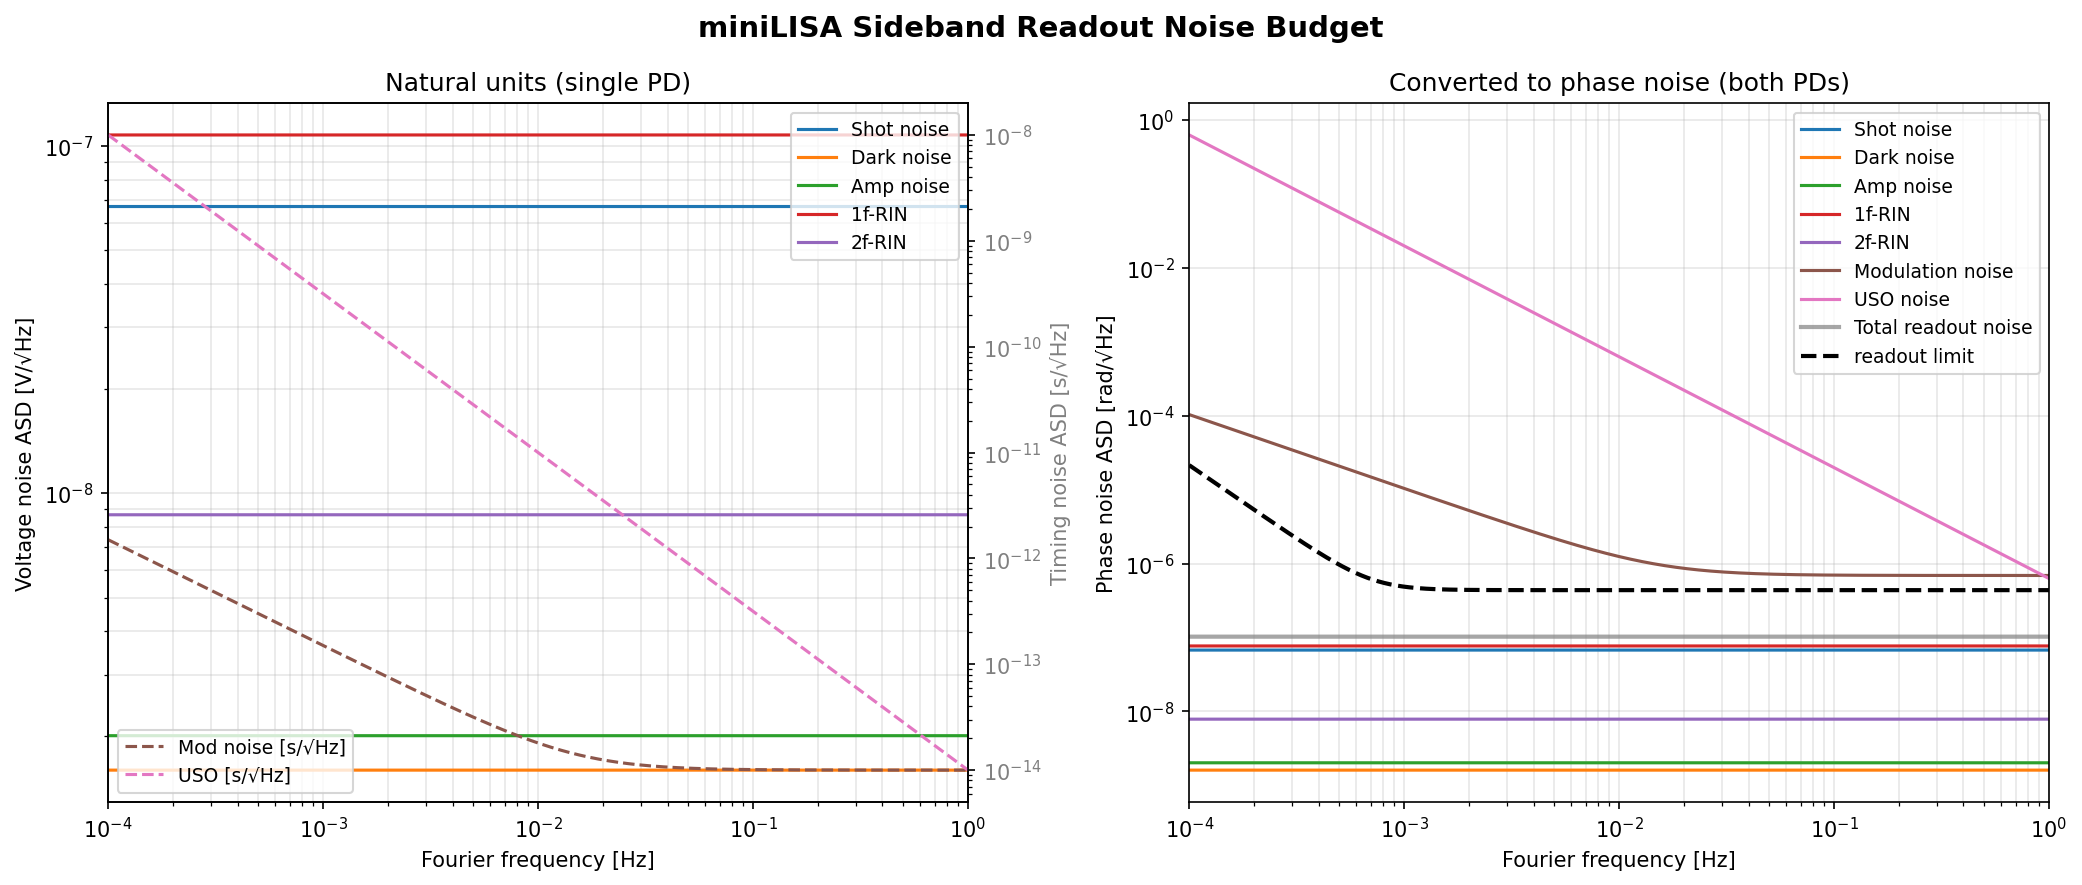
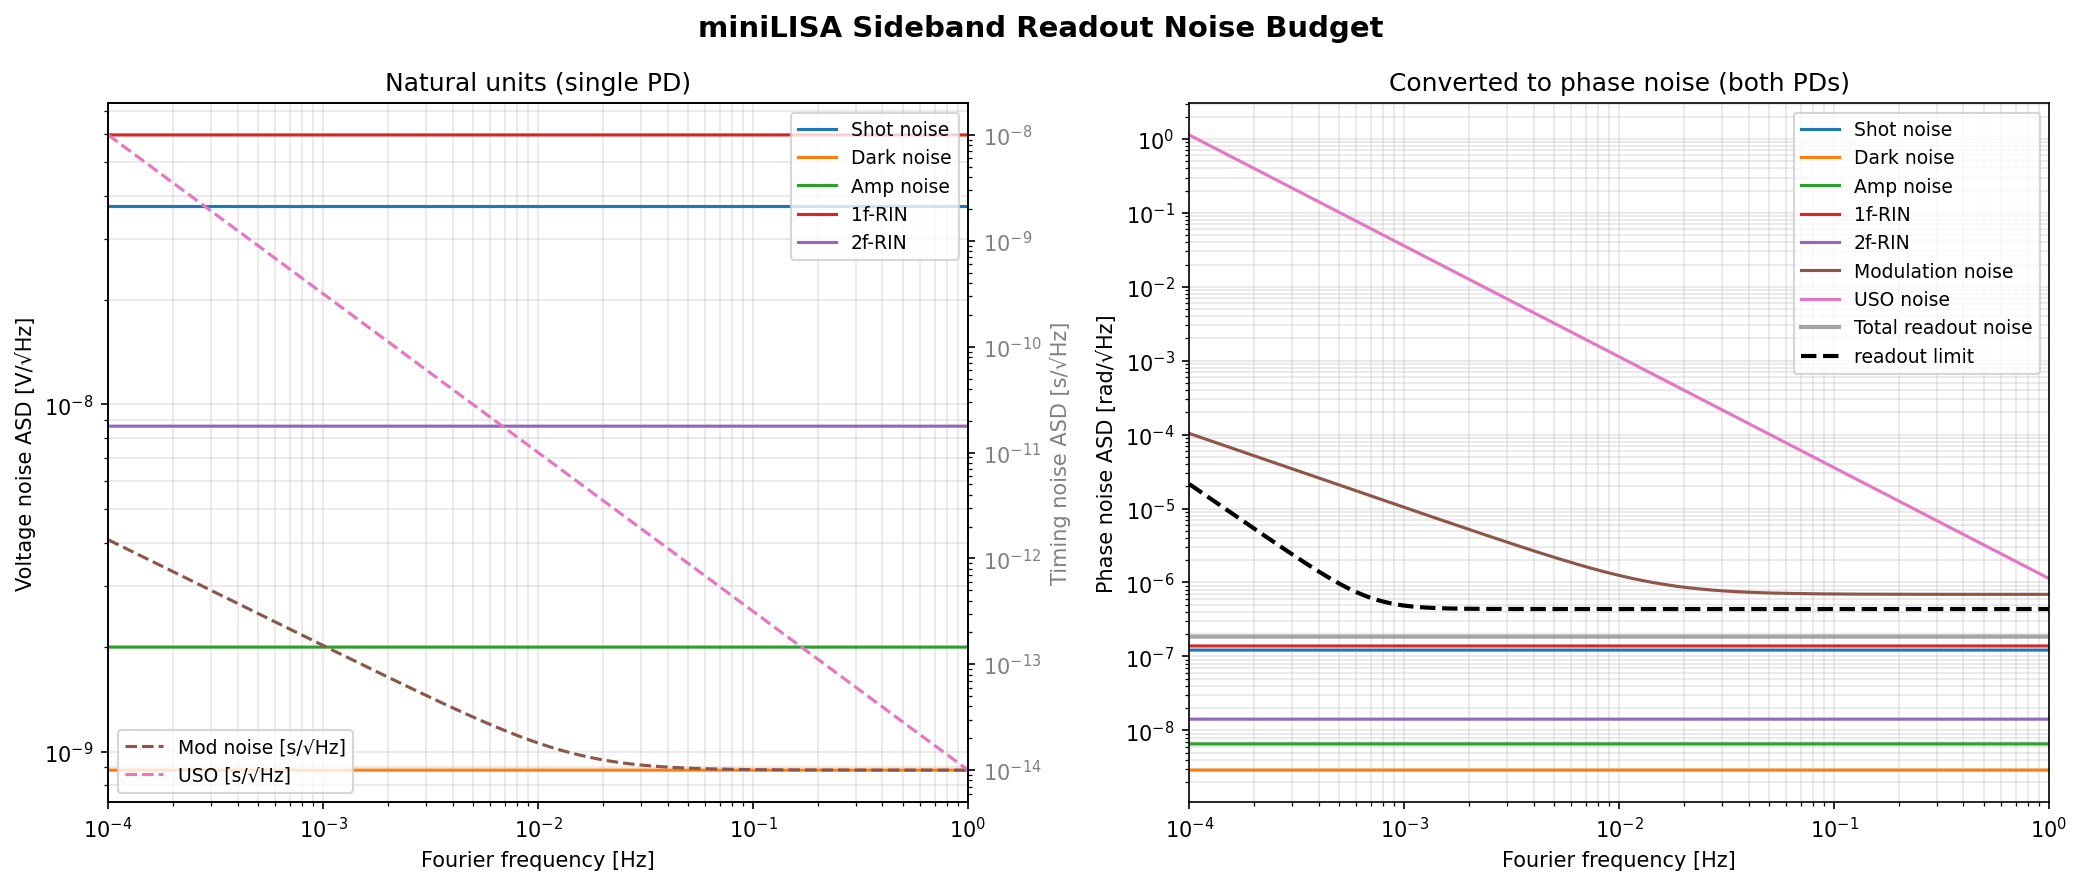
more

diff --git a/Noise Budgeting/miniLISA_sideband_noise_budget.py b/Noise Budgeting/miniLISA_sideband_noise_budget.py
@@ -67,7 +67,7 @@ lam = 1064e-9        # [m]
 # Frequency axis
 f = np.logspace(np.log10(cfg.science_band.f_science_min),
                 np.log10(cfg.science_band.f_science_max), 2000)
-
+print(f"miniLISA vs LISA modulation freq ratio:= {nu_m/2.4e9:.5f}")
 sqrt_S_ro = 600/2/np.pi*1e-6 * np.sqrt(1+(0.7e-3/f)**4) / 2.4e9*nu_m
 
 
@@ -164,7 +164,7 @@ sp_dark  = additive_to_phase(sqrt_S_dark,   A_sb) * freq_scaling * np.sqrt(2)
 sp_amp   = additive_to_phase(sqrt_S_amp_v,  A_sb) * freq_scaling * np.sqrt(2)
 sp_RIN1f = additive_to_phase(sqrt_S_RIN1f,  A_sb) * freq_scaling   # doubling already in sqrt_S_RIN1f
 sp_RIN2f = sqrt_S_RIN2f * freq_scaling                              # doubling already in sqrt_S_RIN2f
-sp_mod   = 2 * np.pi * nu_m * sqrt_S_M
+sp_mod   = 2 * np.pi * (f_het + nu_m) * sqrt_S_M
 sp_USO   = 2 * np.pi * f_het * sqrt_S_USO 
 
 # Totals